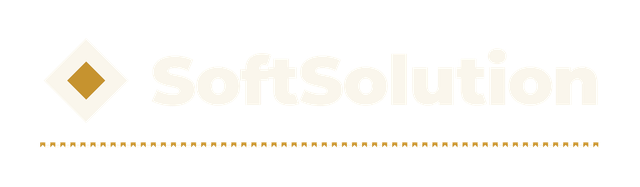
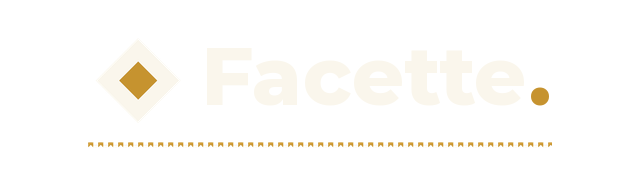
Renommage de la structure en Facette
Claude-Session: https://claude.ai/code/session_01YXXd4AoQxjcQ7ajdmRxZq2

Changed region(s): [[0.0625, 0.7487, 0.9375, 0.8021], [0.0938, 0.3209, 0.25, 0.5348], [0.8125, 0.4545, 0.875, 0.5615]]

diff --git a/index.html b/index.html
@@ -3,22 +3,22 @@
 <head>
 <meta charset="UTF-8">
 <meta name="viewport" content="width=device-width, initial-scale=1, maximum-scale=1, user-scalable=no">
-<title>Nuit Blanche · Soft Solution</title>
-<meta name="description" content="Nuit Blanche : le portfolio jouable de Soft Solution, studio digital à Douala. 7 projets réels, 7 zombies à abattre pour ouvrir chaque dossier.">
+<title>Nuit Blanche · Facette</title>
+<meta name="description" content="Nuit Blanche : le portfolio jouable de Facette, studio digital à Douala. 7 projets réels, 7 zombies à abattre pour ouvrir chaque dossier.">
 <meta name="theme-color" content="#0C0A1A">
 <meta property="og:type" content="website">
-<meta property="og:title" content="Nuit Blanche · le portfolio jouable de Soft Solution">
+<meta property="og:title" content="Nuit Blanche · le portfolio jouable de Facette">
 <meta property="og:description" content="7 projets réels, 7 zombies du plus faible au plus fort. Abats-les pour ouvrir chaque dossier.">
-<meta property="og:url" content="https://soft-solution-portfolio.vercel.app/">
-<meta property="og:image" content="https://soft-solution-portfolio.vercel.app/og-image.jpg">
+<meta property="og:url" content="https://facette-portfolio.vercel.app/">
+<meta property="og:image" content="https://facette-portfolio.vercel.app/og-image.jpg">
 <meta property="og:image:width" content="1200"><meta property="og:image:height" content="630">
 <meta name="twitter:card" content="summary_large_image">
-<link rel="icon" type="image/png" href="assets/logo-softsolution.png">
+<link rel="icon" type="image/png" href="assets/logo-facette.png">
 <link rel="preconnect" href="https://fonts.googleapis.com">
 <link rel="preconnect" href="https://fonts.gstatic.com" crossorigin>
 <link href="https://fonts.googleapis.com/css2?family=Montserrat:ital,wght@0,600;0,800;0,900;1,900&family=Poppins:wght@400;500;600&display=swap" rel="stylesheet">
 <style>
-/* Soft Solution brand system: indigo + or + ivoire, losange, coins coupés.
+/* Facette brand system: indigo + or + ivoire, losange, coins coupés.
    Layout: the 3D night arena fills the screen; HUD hugs the corners; dossiers open as ivory sheets on top. */
 :root{
   --night:#0C0A1A;
@@ -254,10 +254,10 @@ body.is-touch.playing #touch{display:block}
 <!-- Title -->
 <section id="title" class="hidden" aria-label="Écran titre">
   <div class="col">
-    <img class="wordmark" src="assets/wordmark.png" alt="Soft Solution" width="640" height="187">
+    <img class="wordmark" src="assets/wordmark.png" alt="Facette" width="640" height="187">
     <div class="eyebrow">Portfolio jouable · Studio digital basé à Douala</div>
     <h1>Nuit<span>blanche</span></h1>
-    <p class="lede">Sept projets de Soft Solution reviennent cette nuit sous forme de zombies, du plus faible au plus fort. Abats-les un par un : chaque zombie tombé ouvre le dossier complet du projet qu'il porte sur la poitrine.</p>
+    <p class="lede">Sept projets de Facette reviennent cette nuit sous forme de zombies, du plus faible au plus fort. Abats-les un par un : chaque zombie tombé ouvre le dossier complet du projet qu'il porte sur la poitrine.</p>
     <div class="actions">
       <button class="btn btn-gold" id="playBtn">◆ Lancer la partie</button>
       <button class="btn btn-ghost" id="skipBtn">Voir les projets sans jouer</button>
@@ -281,7 +281,7 @@ body.is-touch.playing #touch{display:block}
 
 <!-- HUD -->
 <section id="hud" class="hidden" aria-label="Interface de jeu">
-  <div class="tl"><img src="assets/logo-softsolution.png" alt=""><div class="lvl"><small id="lvlNum">Zombie 1/7</small>Nuit blanche</div></div>
+  <div class="tl"><img src="assets/logo-facette.png" alt=""><div class="lvl"><small id="lvlNum">Zombie 1/7</small>Nuit blanche</div></div>
   <div class="tr">
     <button class="hud-btn" id="dossBtn">Dossiers <b id="dossCount">0/7</b></button>
     <button class="hud-btn" id="muteBtn" aria-label="Couper le son">♪</button>
@@ -344,7 +344,7 @@ body.is-touch.playing #touch{display:block}
     <div class="scroll">
       <div class="index-head">
         <div class="eyebrow">Dossiers récupérés</div>
-        <h2 id="iTitle">Le portfolio de Soft Solution</h2>
+        <h2 id="iTitle">Le portfolio de Facette</h2>
         <p id="iLede"></p>
       </div>
       <div class="grid" id="iGrid"></div>
@@ -383,10 +383,10 @@ body.is-touch.playing #touch{display:block}
     <div class="scroll"><div class="end">
       <div class="eyebrow">Les 7 zombies sont tombés</div>
       <h2>L'aube se lève sur Douala.</h2>
-      <p>Sept projets, du SMS de masse au logiciel de caisse anti-fraude, en passant par un jeu d'échecs. Le prochain sur la liste peut être le vôtre : site, application mobile ou logiciel métier, Soft Solution le construit de bout en bout.</p>
+      <p>Sept projets, du SMS de masse au logiciel de caisse anti-fraude, en passant par un jeu d'échecs. Le prochain sur la liste peut être le vôtre : site, application mobile ou logiciel métier, Facette le construit de bout en bout.</p>
       <div class="contact">
         <div><small>WhatsApp / Téléphone</small><span>+237 6 58 73 58 81</span></div>
-        <div><small>E-mail</small><span>softsolution3@outlook.com</span></div>
+        <div><small>E-mail</small><span>facette3@outlook.com</span></div>
       </div>
       <div class="row">
         <a class="btn btn-gold" href="https://wa.me/237658735881" target="_blank" rel="noopener">Écrire sur WhatsApp</a>
@@ -665,7 +665,7 @@ function buildWorld(logoImg, wordImg){
   const ground = new THREE.Mesh(new THREE.PlaneGeometry(160,160), new THREE.MeshStandardMaterial({map:groundTex, roughness:.92, metalness:.05}));
   ground.rotation.x=-Math.PI/2; ground.receiveShadow=true; scene.add(ground);
 
-  // arena floor paint: big Soft Solution losange in the middle
+  // arena floor paint: big Facette losange in the middle
   if(logoImg){
     const emb = canvasTex(512,512,(g,w,h)=>{ g.globalAlpha=.9; g.drawImage(logoImg,0,0,w,h); });
     const e = new THREE.Mesh(new THREE.PlaneGeometry(13,13), new THREE.MeshStandardMaterial({map:emb, transparent:true, opacity:.2, roughness:.8, depthWrite:false}));
@@ -895,7 +895,7 @@ function buildMinion(){
 }
 function buildPlayer(){
   const h=buildHumanoid({skin:'#6b4532', shirt:'#3B2E86', pants:'#1E1B3A', kind:'player', scale:1});
-  const back=new THREE.Mesh(new THREE.PlaneGeometry(.36,.36), new THREE.MeshBasicMaterial({map:getLogoTex('assets/logo-softsolution.png'), transparent:true}));
+  const back=new THREE.Mesh(new THREE.PlaneGeometry(.36,.36), new THREE.MeshBasicMaterial({map:getLogoTex('assets/logo-facette.png'), transparent:true}));
   back.position.set(0,.05,-.232); back.rotation.y=Math.PI; h.torso.add(back);
   const hood=bx(.66,.18,.3,std(0x2C2168)); hood.position.set(0,.43,-.12); h.torso.add(hood);
   const gun=new THREE.Group(); const gb=bx(.14,.16,.62,std(0x1c1b22,{metalness:.6,roughness:.35})); gb.position.z=.18; gun.add(gb);
@@ -1146,7 +1146,7 @@ $('#quitBtn').onclick=()=>{ hide('#paused'); startTitle(); };
 function victory(){ G.state='victory'; clearLevel(); hide('#boss'); setHint(''); show('#victory'); Snd.pickup(); }
 $('#replayBtn').onclick=()=>{ hide('#victory'); G.pos.set(0,0,8); rebuildWeapon(); startLevel(0); };
 $('#vIndexBtn').onclick=()=>{ hide('#victory'); openIndex(); };
-$('#copyMail').onclick=async()=>{ try{ await navigator.clipboard.writeText('softsolution3@outlook.com'); $('#copyMail').textContent='E-mail copié'; }catch(e){ $('#copyMail').textContent='softsolution3@outlook.com'; } };
+$('#copyMail').onclick=async()=>{ try{ await navigator.clipboard.writeText('facette3@outlook.com'); $('#copyMail').textContent='E-mail copié'; }catch(e){ $('#copyMail').textContent='facette3@outlook.com'; } };
 $('#playBtn').onclick=startGame;
 $('#skipBtn').onclick=()=>{ PROJECTS.forEach(p=>unlocked.add(p.id)); rebuildWeapon(); save(); updateCounts(); openIndex(); };
 
@@ -1367,7 +1367,7 @@ async function boot(data){
   load(); if(data && Array.isArray(data.unlocked)) data.unlocked.forEach(x=>unlocked.add(x));
   rebuildWeapon();
   try{ await Promise.race([document.fonts.ready, new Promise(r=>setTimeout(r,2500))]); await Promise.all([document.fonts.load('italic 900 46px Montserrat'),document.fonts.load('600 30px Poppins')]).catch(()=>{}); }catch(e){}
-  const [logoImg, wordImg] = await Promise.all([loadImg('assets/logo-softsolution.png'), loadImg('assets/wordmark.png')]);
+  const [logoImg, wordImg] = await Promise.all([loadImg('assets/logo-facette.png'), loadImg('assets/wordmark.png')]);
   buildWorld(logoImg, wordImg);
   plates = await Promise.all(PROJECTS.map(p=>plateSprite(p)));
   G.player=buildPlayer(); scene.add(G.player.root); G.player.root.visible=false;

diff --git a/README.md b/README.md
@@ -1,15 +1,15 @@
 <div align="center">
 
-<img src="assets/logo-softsolution.png" width="72" alt="Soft Solution">
+<img src="assets/logo-facette.png" width="72" alt="Facette">
 
 # Nuit Blanche
 
-**Le portfolio jouable de Soft Solution, studio digital basé à Douala.**
+**Le portfolio jouable de Facette, studio digital basé à Douala.**
 
 Sept projets réels reviennent la nuit sous forme de zombies, du plus faible au plus fort.<br>
 Abats-les un par un : chaque zombie tombé ouvre le dossier complet du projet qu'il porte sur la poitrine.
 
-### [▶ Jouer en ligne](https://soft-solution-portfolio.vercel.app)
+### [▶ Jouer en ligne](https://facette-portfolio.vercel.app)
 
 <img src="docs/demo.gif" width="760" alt="Une partie de Nuit Blanche : le joueur abat le zombie de NeuroFlow SMS et ouvre son dossier">
 
@@ -53,8 +53,8 @@ Les balles et les esquives sont illimitées. Pressé ? **Voir les projets sans j
 ## Lancer en local
 
 ```bash
-git clone https://github.com/beltus2-ctrl/soft-solution-portfolio.git
-cd soft-solution-portfolio
+git clone https://github.com/beltus2-ctrl/facette-portfolio.git
+cd facette-portfolio
 npx serve .        # ou : python -m http.server 8080
 ```
 
@@ -69,7 +69,7 @@ vercel --prod
 
 <div align="center">
 
-**Soft Solution** · Sites web, applications mobiles et logiciels métier, à Douala.<br>
-WhatsApp : +237 6 58 73 58 81 · softsolution3@outlook.com
+**Facette** · Sites web, applications mobiles et logiciels métier, à Douala.<br>
+WhatsApp : +237 6 58 73 58 81 · facette3@outlook.com
 
 </div>

diff --git a/RELEASE_NOTES.md b/RELEASE_NOTES.md
@@ -1,6 +1,6 @@
 # v1.0.0 — Nuit Blanche
 
-Première version du portfolio jouable de Soft Solution.
+Première version du portfolio jouable de Facette.
 
 🧟 **7 projets réels, 7 zombies.** Chaque zombie porte le logo d'un projet sur la poitrine. Abats-le pour ouvrir son dossier : écrans de l'application, besoin, fonctionnalités, stack.
 
@@ -13,4 +13,4 @@ Première version du portfolio jouable de Soft Solution.
 
 **Technique** : Three.js r160, Web Audio API, un seul fichier HTML, hébergé sur Vercel.
 
-▶ Jouer : https://soft-solution-portfolio.vercel.app
+▶ Jouer : https://facette-portfolio.vercel.app
